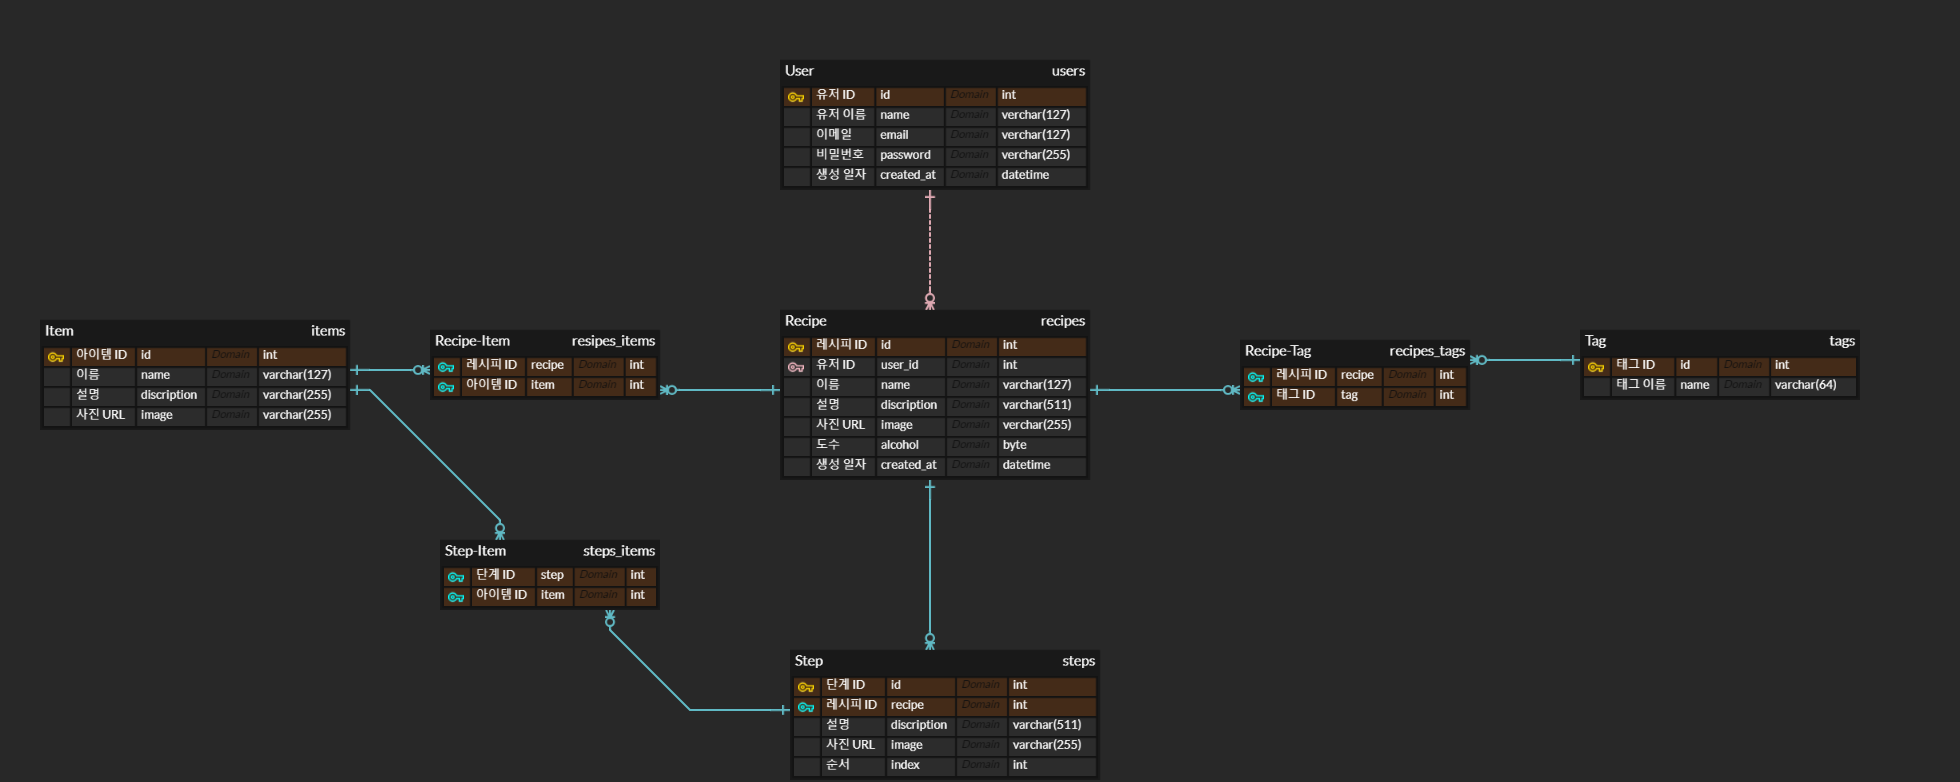
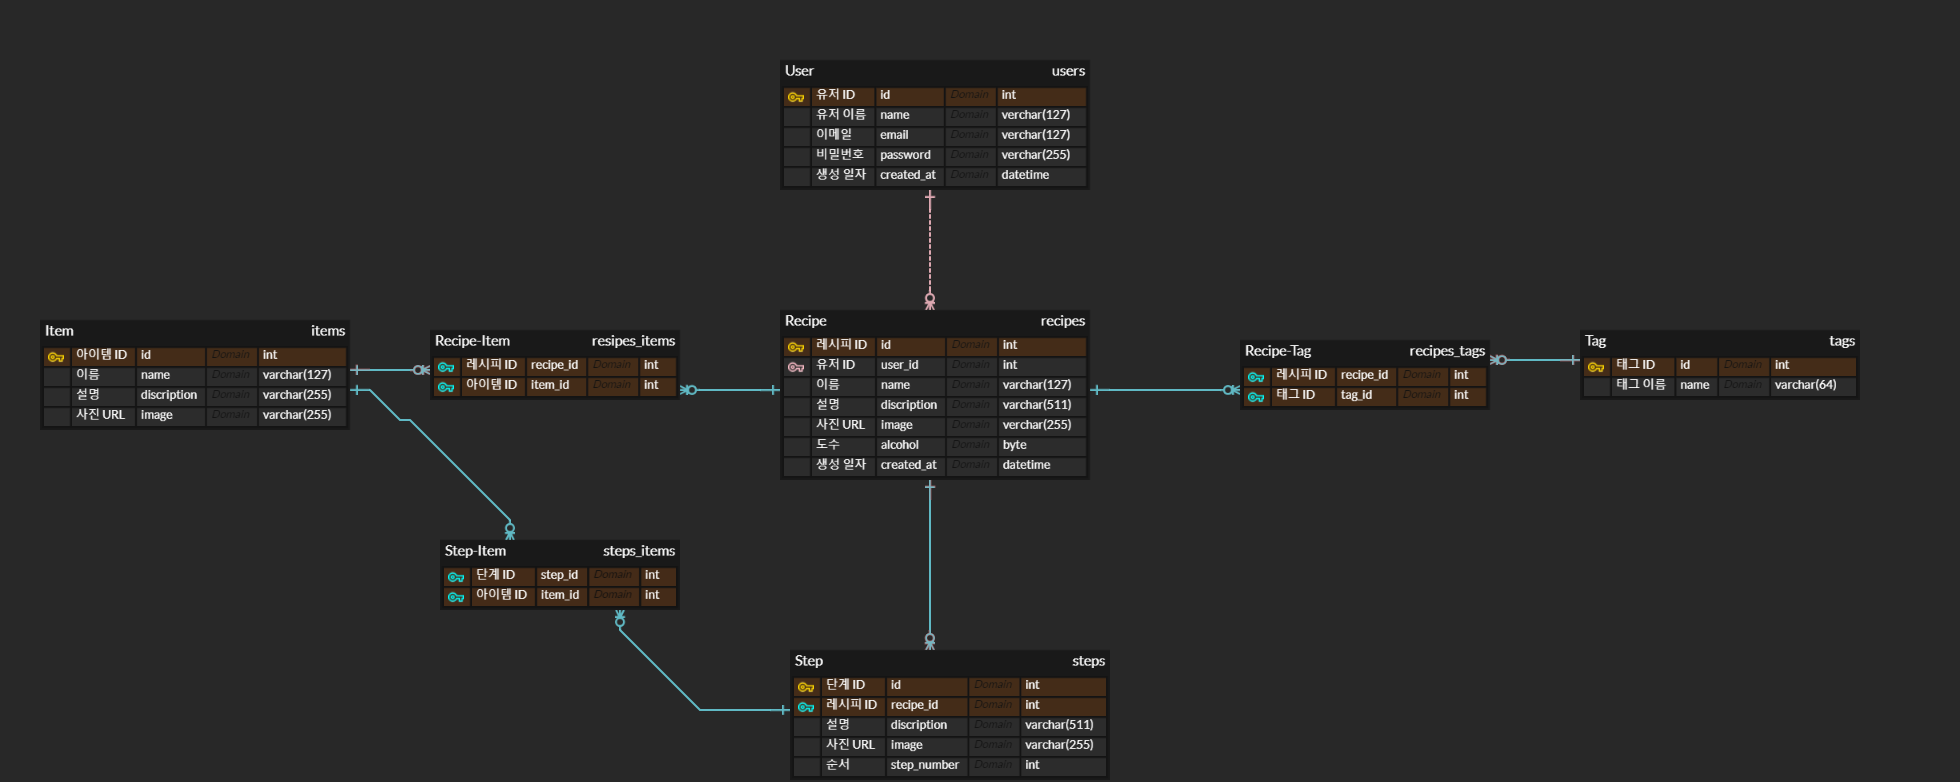
erd 업데이트, sql 파일 작성

diff --git a/src/models/seedManager.js b/src/models/seedManager.js
@@ -2,8 +2,41 @@
 
 import db from './db.js';
 
-const checkDB = async () => {
-    //db에 필요한 테이블이 모두 있는지 확인한다. 
+const executeSqlFile = async (filePath, connection) => {
+    try {
+      const sql = await fs.readFile(filePath, 'utf8');
+      // 여러 쿼리를 세미콜론으로 분리
+      const queries = sql.split(';').filter((query) => query.trim());
+      for (const query of queries) {
+        await connection.query(query);
+      }
+      console.log(`Successfully executed ${path.basename(filePath)}`);
+    } catch (error) {
+      console.error(`Error executing ${path.basename(filePath)}:`, error.message);
+      throw error;
+    }
+};
+
+const checkDatabase = async (connection) => {
+    try {
+      const [rows] = await connection.query(`
+        SELECT table_name 
+        FROM information_schema.tables 
+        WHERE table_schema = ? 
+        AND table_name IN ('users', 'posts')
+      `, [dbConfig.database]);//이거 없음
+  
+      const existingTables = rows.map((row) => row.table_name);
+      console.log('Existing tables:', existingTables);
+  
+      return {
+        hasUsersTable: existingTables.includes('users'),
+        hasPostsTable: existingTables.includes('posts'),
+      };
+    } catch (error) {
+      console.error('Error checking database state:', error.message);
+      throw error;
+    }
 };
 
 const initDB = async () => {
